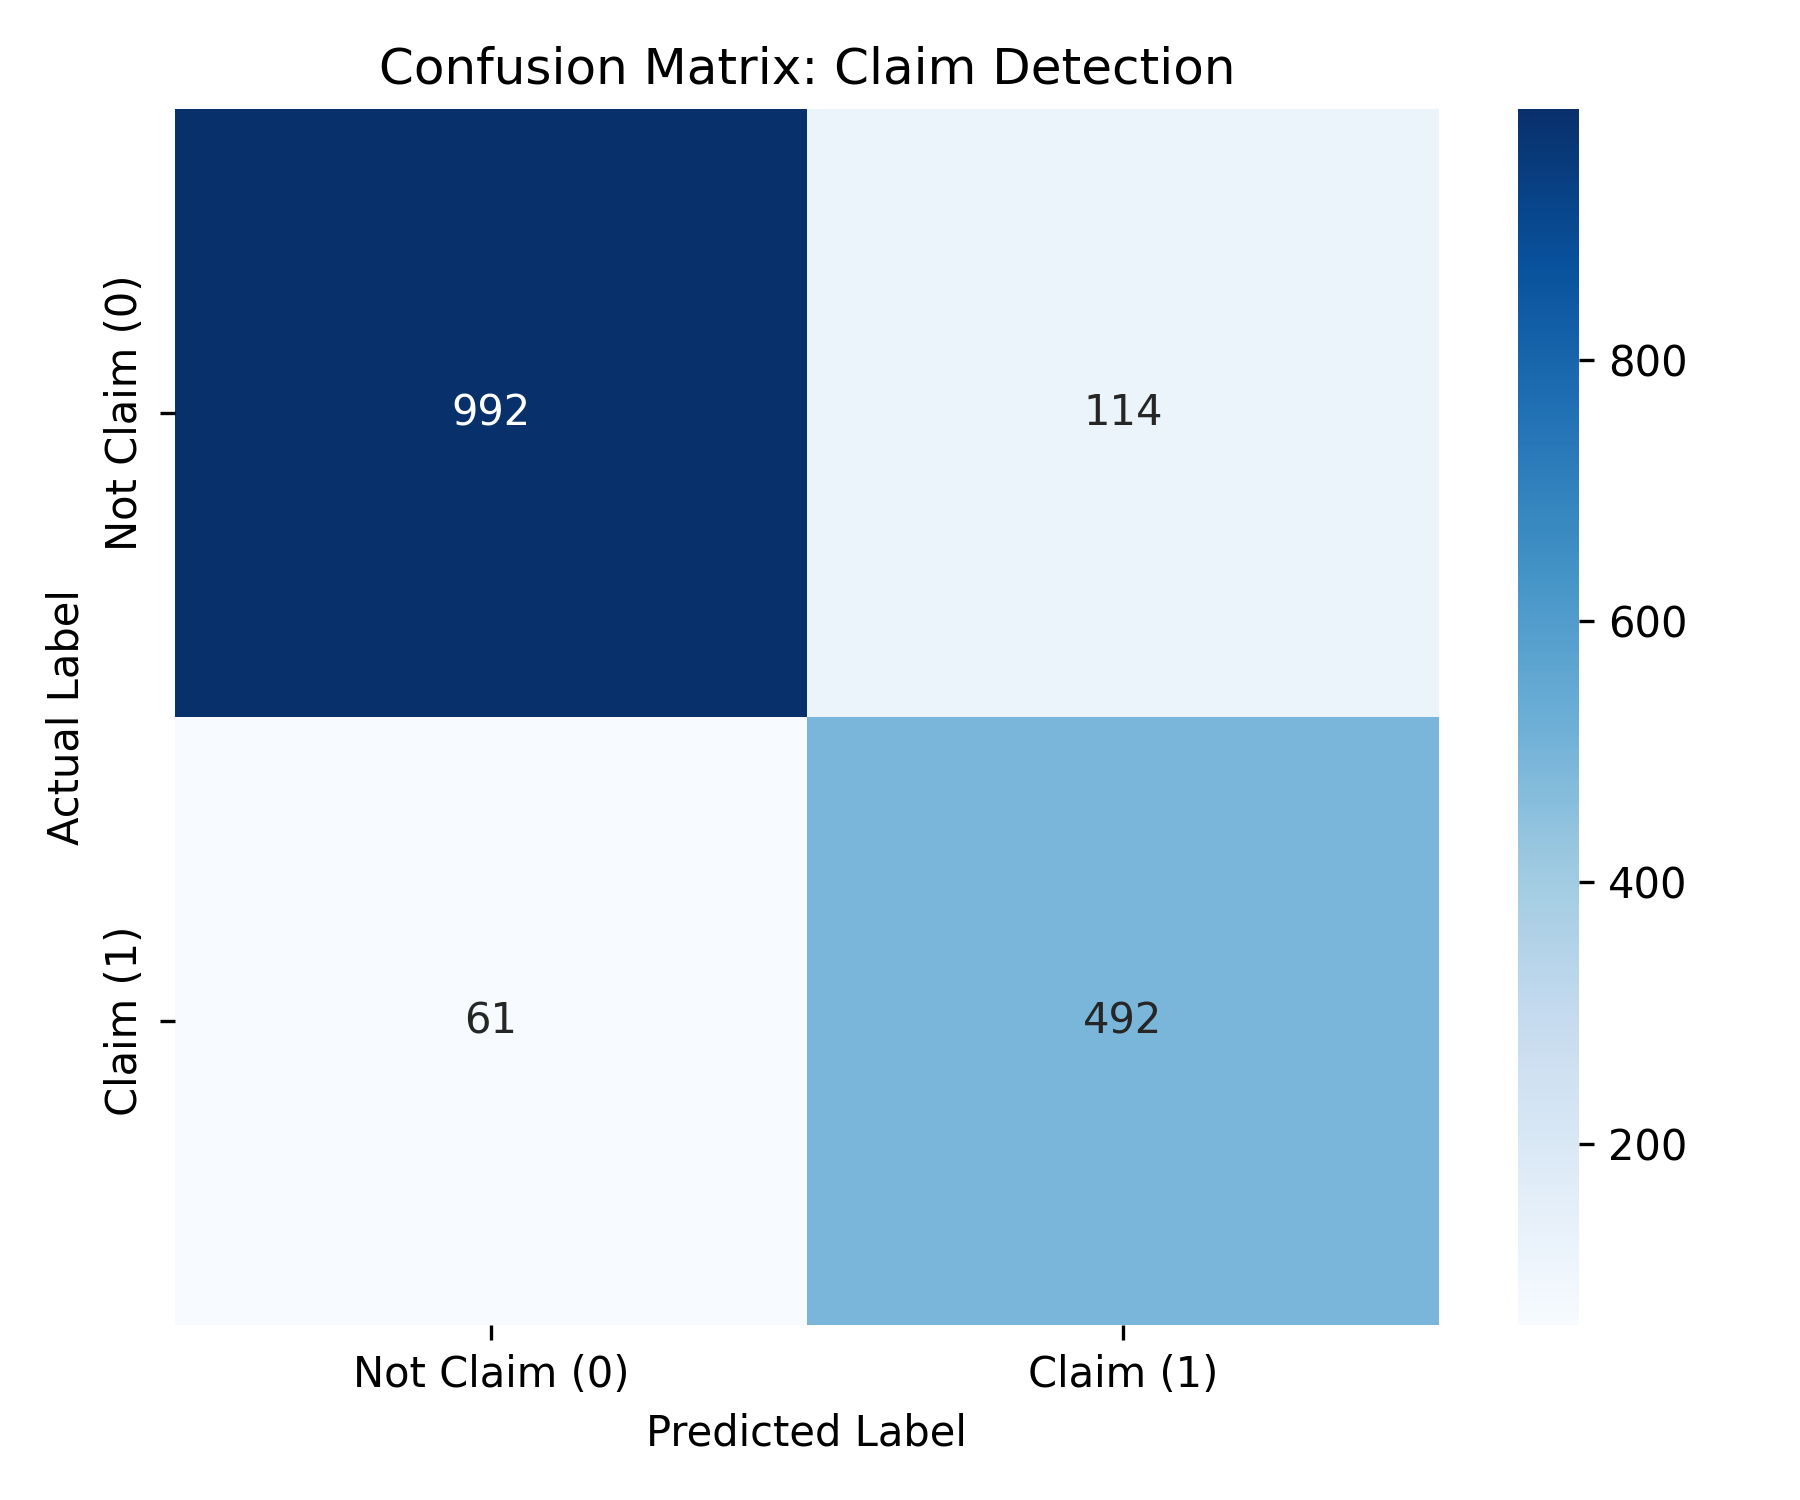
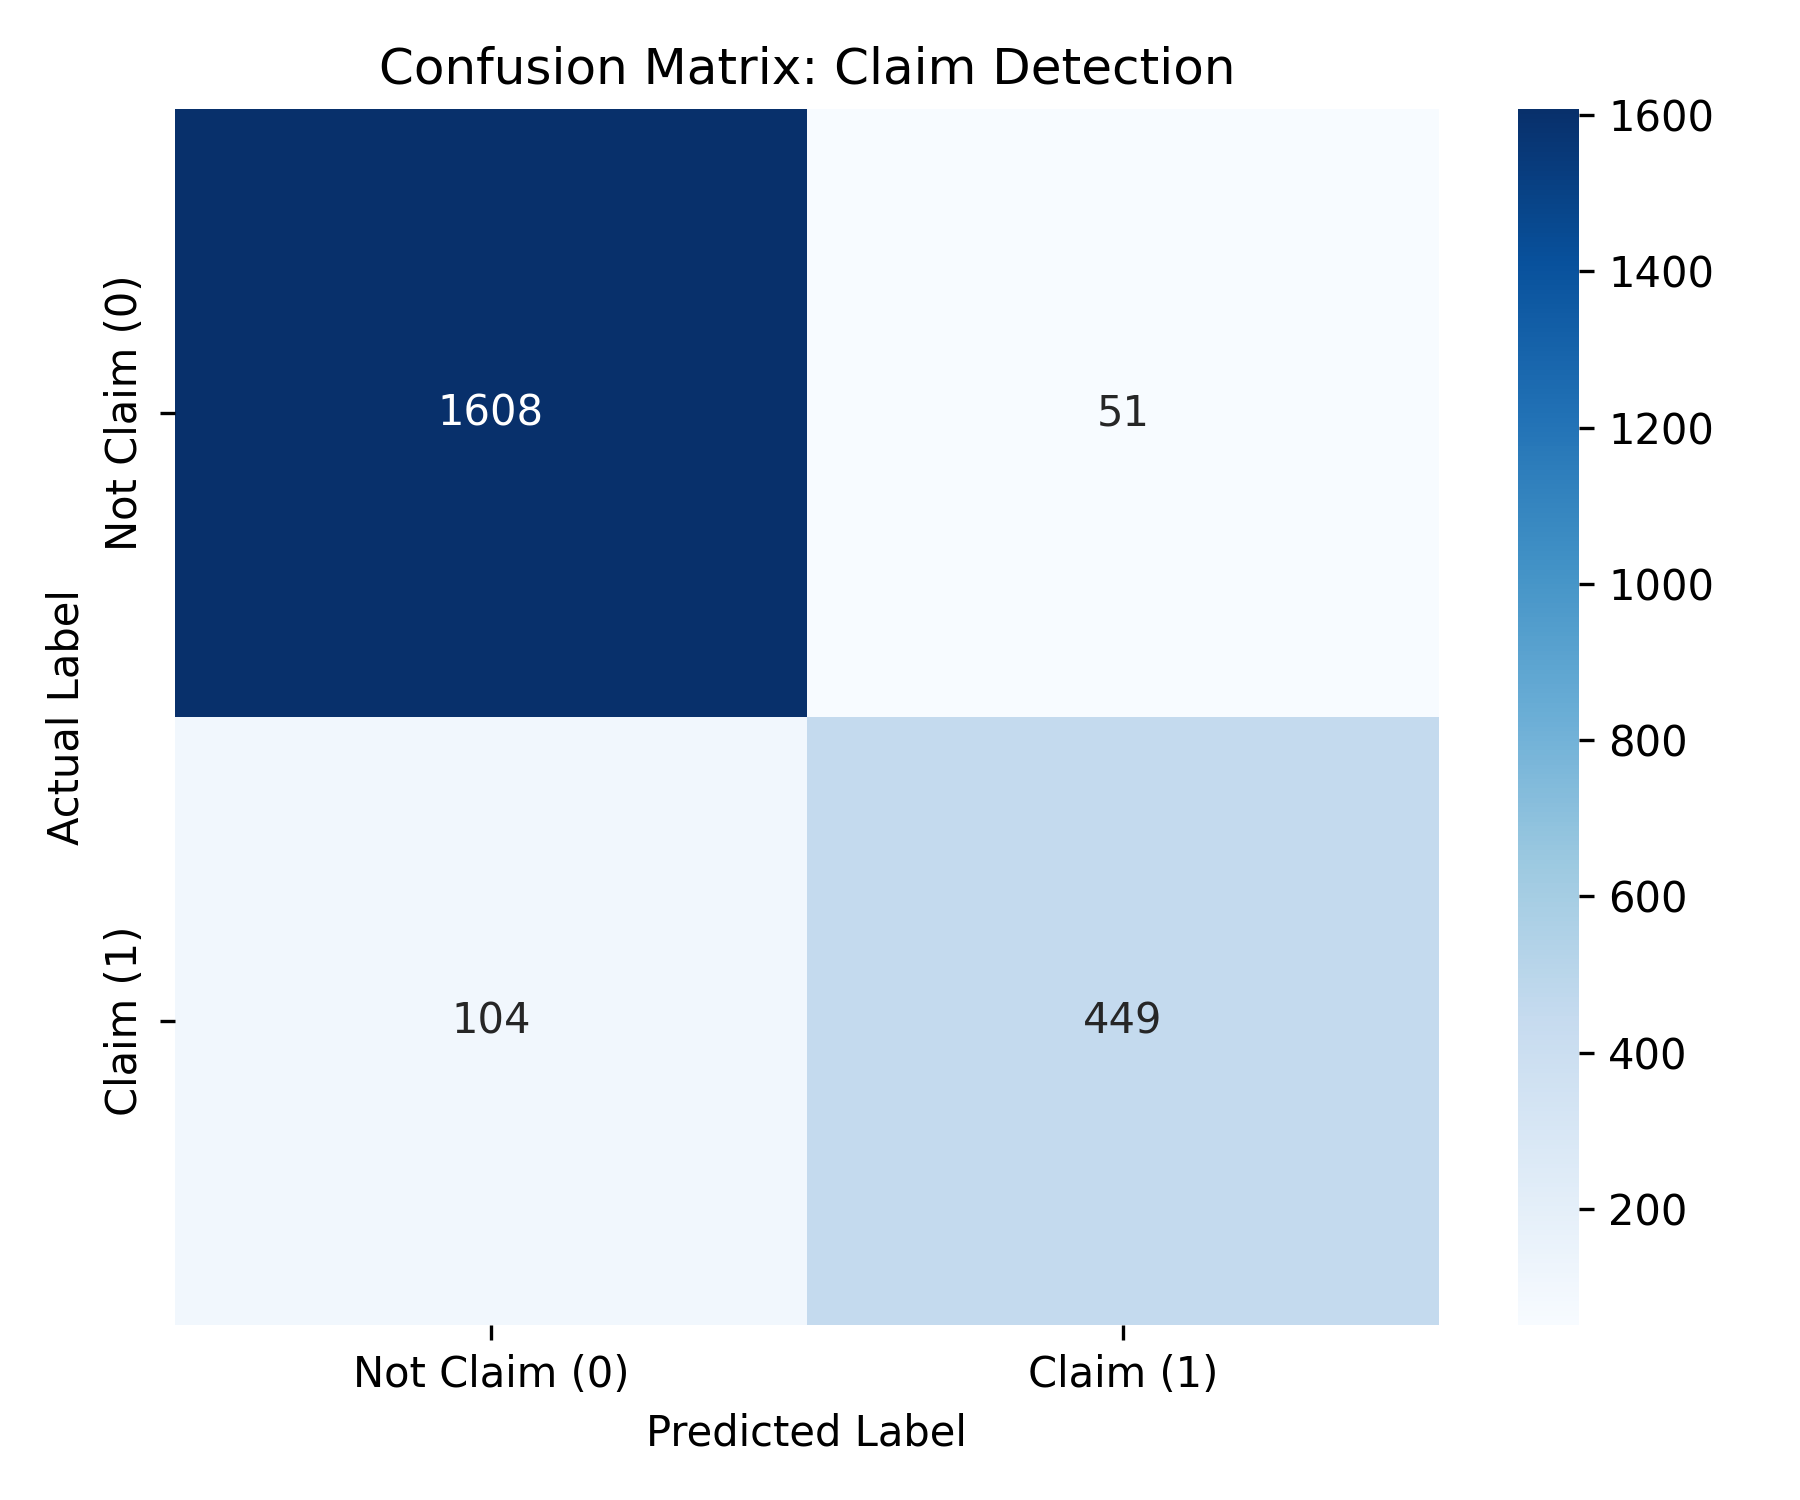
retrained the model on larger dataset

diff --git a/FineTuning/Train.py b/FineTuning/Train.py
@@ -14,7 +14,7 @@ from transformers import (
 
 MODEL_NAME = "distilbert-base-uncased"
 OUTPUT_DIR = "./claim_detection_model"
-DATA_FILE = "./datasets/2xNCS.json"
+DATA_FILE = "./datasets/3xNCS.json"
 
 def load_and_preprocess_data(json_path):
     """Loads the ClaimBuster JSON and splits it 80/20."""
@@ -47,7 +47,6 @@ def compute_metrics(eval_pred):
     acc = accuracy_score(labels, predictions)
     precision = precision_score(labels, predictions, average="binary")
     recall = recall_score(labels, predictions, average="binary")
-    
     return {
         "accuracy": acc, 
         "f1": f1,

diff --git a/FineTuning/Evaluate.py b/FineTuning/Evaluate.py
@@ -19,7 +19,7 @@ from transformers import (
 
 # --- Configuration ---
 MODEL_DIR = "./claim_detection_model"
-DATA_FILE = "./datasets/2xNCS.json"
+DATA_FILE = "./datasets/3xNCS.json"
 
 def load_test_data(json_path):
     """Recreates the exact 20% test split used during training."""
